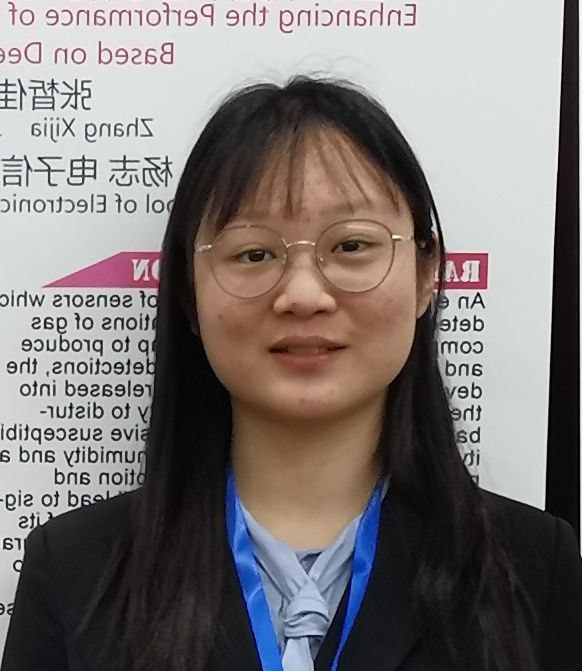
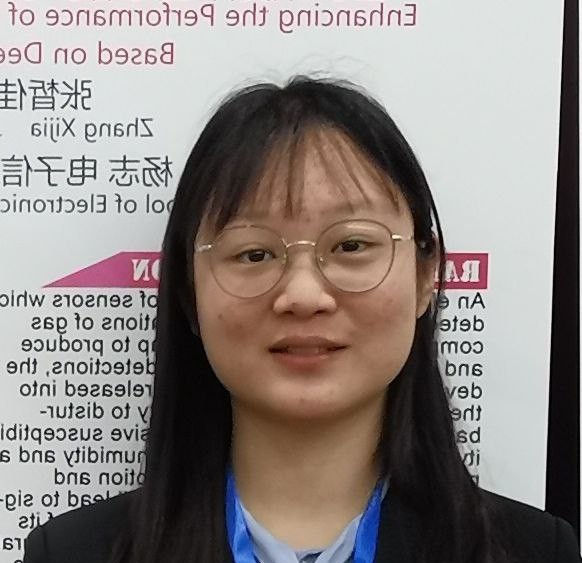
update

diff --git a/post/writing-technical-content/index.html b/post/writing-technical-content/index.html
@@ -999,7 +999,7 @@ data.head()
 
 
 
-<div id="chart-238591476" class="chart"></div>
+<div id="chart-128437965" class="chart"></div>
 <script>
   (function() {
     let a = setInterval( function() {
@@ -1009,7 +1009,7 @@ data.head()
       clearInterval( a );
 
       Plotly.d3.json("./line-chart.json", function(chart) {
-        Plotly.plot('chart-238591476', chart.data, chart.layout, {responsive: true});
+        Plotly.plot('chart-128437965', chart.data, chart.layout, {responsive: true});
       });
     }, 500 );
   })();
@@ -1432,7 +1432,7 @@ Crash --> [*]
   <div class="media author-card content-widget-hr">
     
       
-      <a href="https://example.com/"><img class="avatar mr-3 avatar-circle" src="/authors/admin/avatar_hu35226bda0cb2d74c4374bfb511c6253b_65886_270x270_fill_q75_lanczos_center.jpg" alt="Pony Zhang"></a>
+      <a href="https://example.com/"><img class="avatar mr-3 avatar-circle" src="/authors/admin/avatar_hu3f00b67bd79c0133ffdeab90bde7a2bf_70828_270x270_fill_q75_lanczos_center.jpg" alt="Pony Zhang"></a>
     
 
     <div class="media-body">

diff --git a/post/getting-started/index.html b/post/getting-started/index.html
@@ -1139,7 +1139,7 @@
   <div class="media author-card content-widget-hr">
     
       
-      <a href="https://example.com/"><img class="avatar mr-3 avatar-circle" src="/authors/admin/avatar_hu35226bda0cb2d74c4374bfb511c6253b_65886_270x270_fill_q75_lanczos_center.jpg" alt="Pony Zhang"></a>
+      <a href="https://example.com/"><img class="avatar mr-3 avatar-circle" src="/authors/admin/avatar_hu3f00b67bd79c0133ffdeab90bde7a2bf_70828_270x270_fill_q75_lanczos_center.jpg" alt="Pony Zhang"></a>
     
 
     <div class="media-body">

diff --git a/post/jupyter/index.html b/post/jupyter/index.html
@@ -1107,7 +1107,7 @@
   <div class="media author-card content-widget-hr">
     
       
-      <a href="https://example.com/"><img class="avatar mr-3 avatar-circle" src="/authors/admin/avatar_hu35226bda0cb2d74c4374bfb511c6253b_65886_270x270_fill_q75_lanczos_center.jpg" alt="Pony Zhang"></a>
+      <a href="https://example.com/"><img class="avatar mr-3 avatar-circle" src="/authors/admin/avatar_hu3f00b67bd79c0133ffdeab90bde7a2bf_70828_270x270_fill_q75_lanczos_center.jpg" alt="Pony Zhang"></a>
     
 
     <div class="media-body">

diff --git a/project/example/index.html b/project/example/index.html
@@ -1096,7 +1096,7 @@
   <div class="media author-card content-widget-hr">
     
       
-      <a href="https://example.com/"><img class="avatar mr-3 avatar-circle" src="/authors/admin/avatar_hu35226bda0cb2d74c4374bfb511c6253b_65886_270x270_fill_q75_lanczos_center.jpg" alt="Pony Zhang"></a>
+      <a href="https://example.com/"><img class="avatar mr-3 avatar-circle" src="/authors/admin/avatar_hu3f00b67bd79c0133ffdeab90bde7a2bf_70828_270x270_fill_q75_lanczos_center.jpg" alt="Pony Zhang"></a>
     
 
     <div class="media-body">

diff --git a/project/external-project/index.html b/project/external-project/index.html
@@ -1075,7 +1075,7 @@
   <div class="media author-card content-widget-hr">
     
       
-      <a href="https://example.com/"><img class="avatar mr-3 avatar-circle" src="/authors/admin/avatar_hu35226bda0cb2d74c4374bfb511c6253b_65886_270x270_fill_q75_lanczos_center.jpg" alt="Pony Zhang"></a>
+      <a href="https://example.com/"><img class="avatar mr-3 avatar-circle" src="/authors/admin/avatar_hu3f00b67bd79c0133ffdeab90bde7a2bf_70828_270x270_fill_q75_lanczos_center.jpg" alt="Pony Zhang"></a>
     
 
     <div class="media-body">

diff --git a/publication/conference-paper/index.html b/publication/conference-paper/index.html
@@ -1188,7 +1188,7 @@
   <div class="media author-card content-widget-hr">
     
       
-      <a href="https://example.com/"><img class="avatar mr-3 avatar-circle" src="/authors/admin/avatar_hu35226bda0cb2d74c4374bfb511c6253b_65886_270x270_fill_q75_lanczos_center.jpg" alt="Pony Zhang"></a>
+      <a href="https://example.com/"><img class="avatar mr-3 avatar-circle" src="/authors/admin/avatar_hu3f00b67bd79c0133ffdeab90bde7a2bf_70828_270x270_fill_q75_lanczos_center.jpg" alt="Pony Zhang"></a>
     
 
     <div class="media-body">

diff --git a/publication/journal-article/index.html b/publication/journal-article/index.html
@@ -1166,7 +1166,7 @@
   <div class="media author-card content-widget-hr">
     
       
-      <a href="https://example.com/"><img class="avatar mr-3 avatar-circle" src="/authors/admin/avatar_hu35226bda0cb2d74c4374bfb511c6253b_65886_270x270_fill_q75_lanczos_center.jpg" alt="Pony Zhang"></a>
+      <a href="https://example.com/"><img class="avatar mr-3 avatar-circle" src="/authors/admin/avatar_hu3f00b67bd79c0133ffdeab90bde7a2bf_70828_270x270_fill_q75_lanczos_center.jpg" alt="Pony Zhang"></a>
     
 
     <div class="media-body">

diff --git a/publication/preprint/index.html b/publication/preprint/index.html
@@ -1193,7 +1193,7 @@
   <div class="media author-card content-widget-hr">
     
       
-      <a href="https://example.com/"><img class="avatar mr-3 avatar-circle" src="/authors/admin/avatar_hu35226bda0cb2d74c4374bfb511c6253b_65886_270x270_fill_q75_lanczos_center.jpg" alt="Pony Zhang"></a>
+      <a href="https://example.com/"><img class="avatar mr-3 avatar-circle" src="/authors/admin/avatar_hu3f00b67bd79c0133ffdeab90bde7a2bf_70828_270x270_fill_q75_lanczos_center.jpg" alt="Pony Zhang"></a>
     
 
     <div class="media-body">

diff --git a/talk/example-talk/index.html b/talk/example-talk/index.html
@@ -1156,7 +1156,7 @@
   <div class="media author-card content-widget-hr">
     
       
-      <a href="https://example.com/"><img class="avatar mr-3 avatar-circle" src="/authors/admin/avatar_hu35226bda0cb2d74c4374bfb511c6253b_65886_270x270_fill_q75_lanczos_center.jpg" alt="Pony Zhang"></a>
+      <a href="https://example.com/"><img class="avatar mr-3 avatar-circle" src="/authors/admin/avatar_hu3f00b67bd79c0133ffdeab90bde7a2bf_70828_270x270_fill_q75_lanczos_center.jpg" alt="Pony Zhang"></a>
     
 
     <div class="media-body">

diff --git a/index.html b/index.html
@@ -930,7 +930,7 @@
       
       <img class="avatar avatar-circle"
            width="270" height="270"
-           src="/authors/admin/avatar_hu35226bda0cb2d74c4374bfb511c6253b_65886_270x270_fill_q75_lanczos_center.jpg" alt="Pony Zhang">
+           src="/authors/admin/avatar_hu3f00b67bd79c0133ffdeab90bde7a2bf_70828_270x270_fill_q75_lanczos_center.jpg" alt="Pony Zhang">
       
 
       <div class="portrait-title">
